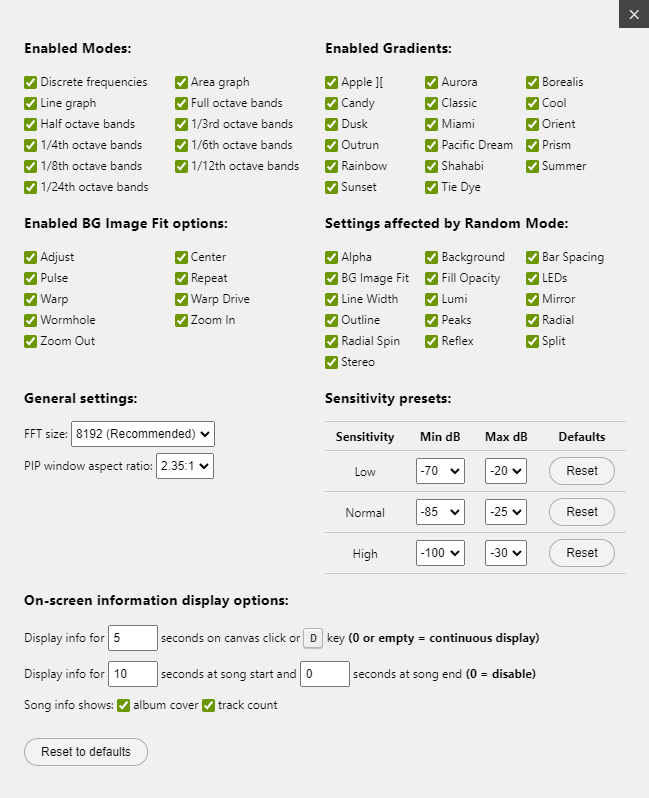
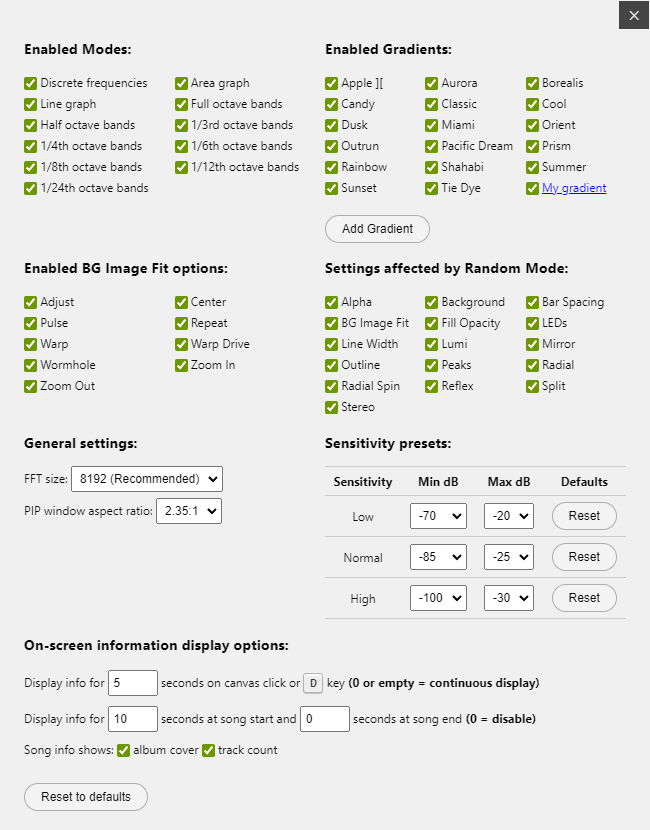
Update documentation.

diff --git a/docs/styles.css b/docs/styles.css
@@ -172,10 +172,15 @@ p ~ .table-wrapper table {
 	--left: 282px;
 	--height: 55px;
 }
-.active.highlight-reflex-mirror {
+.active.highlight-reflex {
 	--top: 160px;
 	--left: 282px;
-	--height: 100px;
+	--height: 55px;
+}
+.active.highlight-mirror {
+	--top: 208px;
+	--left: 282px;
+	--height: 55px;
 }
 .active.highlight-sensitivity {
 	--top: 1px;

diff --git a/docs/README.md b/docs/README.md
@@ -5,17 +5,14 @@
 > **audioMotion** is a high-resolution real-time audio spectrum analyzer and full-featured music player that lets you to ♪♫ **see your music!** ♪♫<br>
 > It is completely free, open-source software, created out of my passion for the graphic spectrum analyzers of hi-fi systems from the 1980s.
 
-[![GitHub release](https://img.shields.io/github/release/hvianna/audioMotion.js.svg)](https://github.com/hvianna/audioMotion.js/releases/latest)
-[![GitHub Release Date](https://img.shields.io/github/release-date/hvianna/audioMotion.js.svg)](https://github.com/hvianna/audioMotion.js/releases/latest)
-
 ## Features
 
 * High-resolution real-time dual channel audio spectrum analyzer
-* Fullscreen and Picture-In-Picture support at up to 60fps, ready for retina / HiDPI displays
+* Fullscreen and Picture-In-Picture support at 60fps, ready for retina / HiDPI displays
 * Logarithmic frequency scale with customizable range
 * Visualize discrete frequencies or octave bands based on the equal tempered scale
 * Optional effects: vintage LEDs, luminance bars, reflection, radial visualization
-* 17 beautiful color gradients
+* 17 beautiful color gradients, plus a visual editor to easily create your own gradients
 * HTML5 audio player for MP3, AAC (m4a), OGG and FLAC files (support may vary depending on browser and operating system)
 * Visual file explorer and play queue with drag-and-drop functionality
 * Support for M3U playlists (`m3u` and `m3u8` file extensions)
@@ -30,6 +27,7 @@
 > ▶ **[https://demo.audiomotion.me](https://demo.audiomotion.me)**
 
 The demo site includes a few sample songs, radio streams and background images and videos ([credits here](#resources-used-in-the-demo-site)).
+
 You can also upload audio files from your PC and use the microphone input.
 
 Also check out our [**YouTube channel**](https://audiomotion.me/yt) for some cool songs visualized with audioMotion!
@@ -69,9 +67,9 @@ Please be aware that using the `-e` flag will expose the contents of the mounted
 
 I would like to thank my wife **Virginia** for her continued support, encouragement and feedback! :kissing_heart:
 
-Thanks to [Yuji Koike](https://www.ykcircus.com/) for [Soniq Viewer for iOS](https://itunes.apple.com/us/app/soniq-viewer/id448343005), which inspired me to create **audioMotion.**
+[Yuji Koike](https://www.ykcircus.com/) for his great [Soniq Viewer for iOS](https://itunes.apple.com/us/app/soniq-viewer/id448343005), which inspired me to create **audioMotion.**
 
-And to all the developers and content creators for the resources listed below.
+And all the developers and content creators for the resources listed below.
 
 ### JavaScript libraries <!-- {docsify-ignore} -->
 

diff --git a/README.md b/README.md
@@ -1,15 +1,45 @@
 ![audioMotion-header](docs/img/audioMotion-header.png)
 
+> **audioMotion** is a high-resolution real-time audio spectrum analyzer and full-featured music player that lets you to ♪♫ **see your music!** ♪♫<br>
+> It is completely free, open-source software, created out of my passion for the graphic spectrum analyzers of hi-fi systems from the 1980s.
+
 [![GitHub release](https://img.shields.io/github/release/hvianna/audioMotion.js.svg)](https://github.com/hvianna/audioMotion.js/releases/latest)
 [![GitHub Release Date](https://img.shields.io/github/release-date/hvianna/audioMotion.js.svg)](https://github.com/hvianna/audioMotion.js/releases/latest)
+
+## Features
+
+![screenshot2](docs/img/screenshot2.png)
+
+* High-resolution real-time dual channel audio spectrum analyzer
+* Fullscreen and Picture-In-Picture support at up to 60fps, ready for retina / HiDPI displays
+* Logarithmic frequency scale with customizable range
+* Visualize discrete frequencies or octave bands based on the equal tempered scale
+* Optional effects: vintage LEDs, luminance bars, reflection, radial visualization
+* 17 beautiful color gradients, plus a visual editor to easily create your own gradients
+* HTML5 audio player for MP3, AAC (m4a), OGG and FLAC files (support may vary depending on browser and operating system)
+* Visual file explorer and play queue with drag-and-drop functionality
+* Support for M3U playlists (`m3u` and `m3u8` file extensions)
+* Visualize audio from your microphone (or "stereo mix", if your soundcard supports it)
+* Lightweight custom file server — also works on standard web servers with minimal configuration
+* Client runs on any modern browser (tested on Chrome, Firefox, Opera and Safari)
+
+> **For developers:**<br>
+> Check out [**audioMotion-analyzer**](https://audiomotion.dev) for easy integration of audioMotion's full-featured spectrum analyzer into your own Javascript projects!
 
 ## Live Demo
 
 * [https://demo.audiomotion.me](https://demo.audiomotion.me)
 
-## Documentation & Changelog
+## Documentation, credits and Changelog
 
 * See the [docs/](docs/) folder or visit the [website](https://audiomotion.me)
+
+## Contributing
+
+* For bug reports or feature requests, feel free to [open an issue](https://github.com/hvianna/audioMotion.js/issues);
+* If you'd like to submit a Pull Request, please branch it off the project's `dev` branch - that makes it easier for me to incorporate your changes in a future release.
+
+> Please note that this is a hobby project that I work on in my free time, so it may take me some time to respond to inquiries.
 
 ## License
 

diff --git a/docs/users-manual.md b/docs/users-manual.md
@@ -151,6 +151,8 @@ These settings are effective only for [Line graph mode](#mode) or when [OUTLINE]
 
 Several options of color gradients for the analyzer graphs. You can also change gradients using the **G** and **Shift + G** keyboard shortcuts.
 
+You can disable specific gradients and create your own gradients in the [Config panel](#config-panel).
+
 | Switch | Description |
 |:-------|:------------|
 | **AUTO** | Select the **next gradient** on each track change, or a **random gradient** on each mode change when [Random mode](#random-mode) is active |
@@ -238,17 +240,21 @@ Undesired options can be disabled in the [Config panel](#config-panel).
 
 When [Background](#background) is set to an image (including the Album cover) or video, this option adjusts the brightness of the background.
 
-### Reflex and Mirror
+### Reflex
 
-<div class="settings-panel highlight-reflex-mirror"></div>
+<div class="settings-panel highlight-reflex"></div>
 
-**Reflex** selects the vertical reflection style for the analyzer. This setting has no effect when the [LUMI](#effects) switch is active.
-
-**Mirror** selects the horizontal mirroring effect to the left (low frequencies at the center) or to the right (high frequencies at the center).
+Selects a vertical reflection effect. On octave bands modes, this setting has no effect when the [LUMI](#effects) switch is active.
 
 | Reflex: On | Reflex: Mirrored |
 |:-----------:|:-------------:|
 | ![reflex-on](img/reflex-on.png) | ![reflex-mirrored](img/reflex-mirrored.png)
+
+### Mirror
+
+<div class="settings-panel highlight-mirror"></div>
+
+Selects a horizontal mirroring effect to the left (low frequencies at the center) or to the right (high frequencies at the center).
 
 | Mirror: Left | Mirror: Right |
 |:-----------:|:-------------:|
@@ -337,6 +343,17 @@ Uncheck the visualization modes you don't want to appear in the [Mode](#mode) se
 ### Enabled Gradients
 
 Uncheck the gradients you don't want to appear in the [Gradient](#gradient) selection box.
+
+### Gradient Editor
+
+Click the **Add Gradient** button to create a new color gradient, or click any custom gradient to edit it.
+
+![gradient-editor](img/gradient-editor.png)
+
+At least two colors are required to create a gradient, but you can add as many colors as you like.
+The **offset** must be a number between 0 and 1 - use it to adjust the position of each color inside the gradient.
+
+?> Custom gradients are saved to the browser's local storage, so they will only be available in the same browser they were created.
 
 ### Enabled BG Image Fit options
 

diff --git a/docs/server.md b/docs/server.md
@@ -51,7 +51,7 @@ The complete command line options are:
 !> **WARNING:**<br>
 Please be aware that using the `-e` flag will expose the contents of the mounted folders to anyone in your network (and potentially to the entire internet!) &mdash; use it only if you're in a trusted network and behind a firewall!
 
-### Running from source code
+### Running from source code <!-- {docsify-ignore} -->
 
 audioMotion's server is written in [node.js](https://nodejs.org). If you have node installed, you can install the required packages by opening a command prompt in audioMotion's directory and running:
 
@@ -80,7 +80,7 @@ Just copy the `public` folder to your server (you can rename it to **audioMotion
 * Add your music files to the `music` folder or map the `/music` URL to another folder in your server (see examples below).
 
 
-### Configuration tips
+### Configuration tips <!-- {docsify-ignore} -->
 
 **Lighttpd:**
 
@@ -112,7 +112,7 @@ Alias "/music" "/mnt/HD/HD_a2/MUSIC"
 
 *To do...*
 
-### Apache web server with Docker
+### Apache web server with Docker <!-- {docsify-ignore} -->
 
 If you use Docker, you can simply open a command prompt in audioMotion's directory and run:
 

diff --git a/docs/screenshots.md b/docs/screenshots.md
@@ -1,0 +1,22 @@
+# Screenshots
+
+![screenshot1](img/screenshot1.png)
+*User interface showing the analyzer in **Discrete frequencies** mode, player controls, file explorer and play queue.*
+
+![screenshot2](img/screenshot2.png)
+*Analyzer set to 1/4th-octave bands mode with LEDs effect, extra wide bar spacing and on-screen song information. The **Settings** panel is shown open below.*
+
+![screenshot3](img/screenshot3.png)
+*Fullscreen view: 1/6th-octave bands, regular bar spacing, "Outrun" gradient, Reflex effect and complete on-screen information.*
+
+![screenshot4](img/screenshot4.png)
+*Fullscreen view: Area graph mode, "Rainbow" gradient, frequency scale on.*
+
+![screenshot5](img/screenshot5.png)
+*Fullscreen view: 1/8th-octave bands, LUMI effect on, "Tie Dye" gradient.*
+
+![screenshot6](img/screenshot6.png)
+*Fullscreen view: Line graph, Stereo, frequency and level scales on, "Rainbow" gradient.*
+
+![screenshot7](img/screenshot7.png)
+*Fullscreen view: 1/6th-octave bands, **Radial** analyzer, frequency scale on, "Apple ][" gradient.*

diff --git a/docs/sidebar.md b/docs/sidebar.md
@@ -1,7 +1,10 @@
-* [Home](/)
-* [User's Manual](/users-manual)
-* [Server modes](/server)
-* [Building](/building)
-* [Legacy features](/legacy)
-* [Known issues](/known-issues)
-* [Changelog](/Changelog)
+* [Home](/ "audioMotion")
+* [User's Manual](/users-manual "User's Manual | audioMotion")
+* [Server modes](/server "Server modes | audioMotion")
+* [Building](/building "Building | audioMotion")
+* [Known issues](/known-issues "Known issues | audioMotion")
+* [Changelog](/Changelog "Changelog | audioMotion")
+* [Screenshots](/screenshots "Screenshots | audioMotion")
+* [Legacy features](/legacy "Legacy features | audioMotion")
+* [Contributing](https://github.com/hvianna/audioMotion.js#contributing)
+* [Project on GitHub](https://github.com/hvianna/audioMotion.js)

diff --git a/docs/legacy.md b/docs/legacy.md
@@ -1,6 +1,6 @@
 # Legacy features
 
-## playlists.cfg file
+## playlists.cfg file <!-- {docsify-ignore} -->
 
 Up to version 19.5 audioMotion required a `playlists.cfg` file where you should register several playlists to load music files from.
 The file explorer introduced in version 19.7 made this file obsolete, but its functionality is still supported for legacy users. Below is the original documentation.
